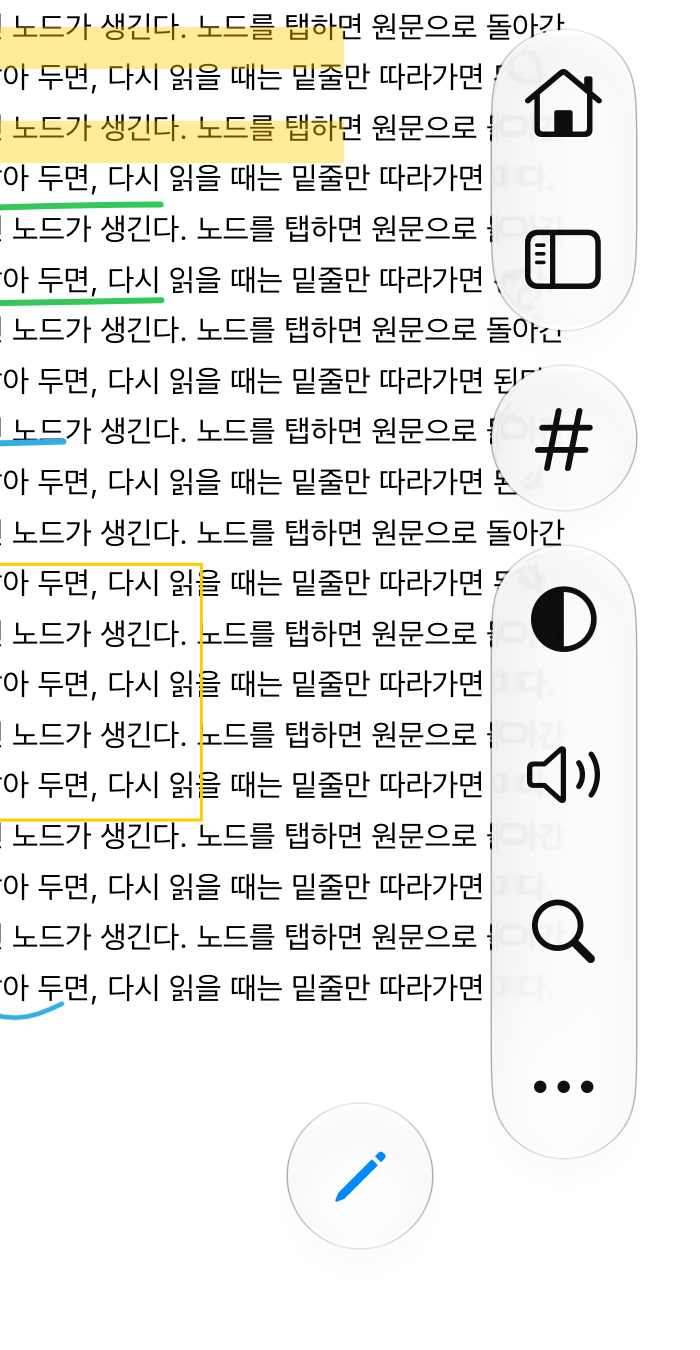
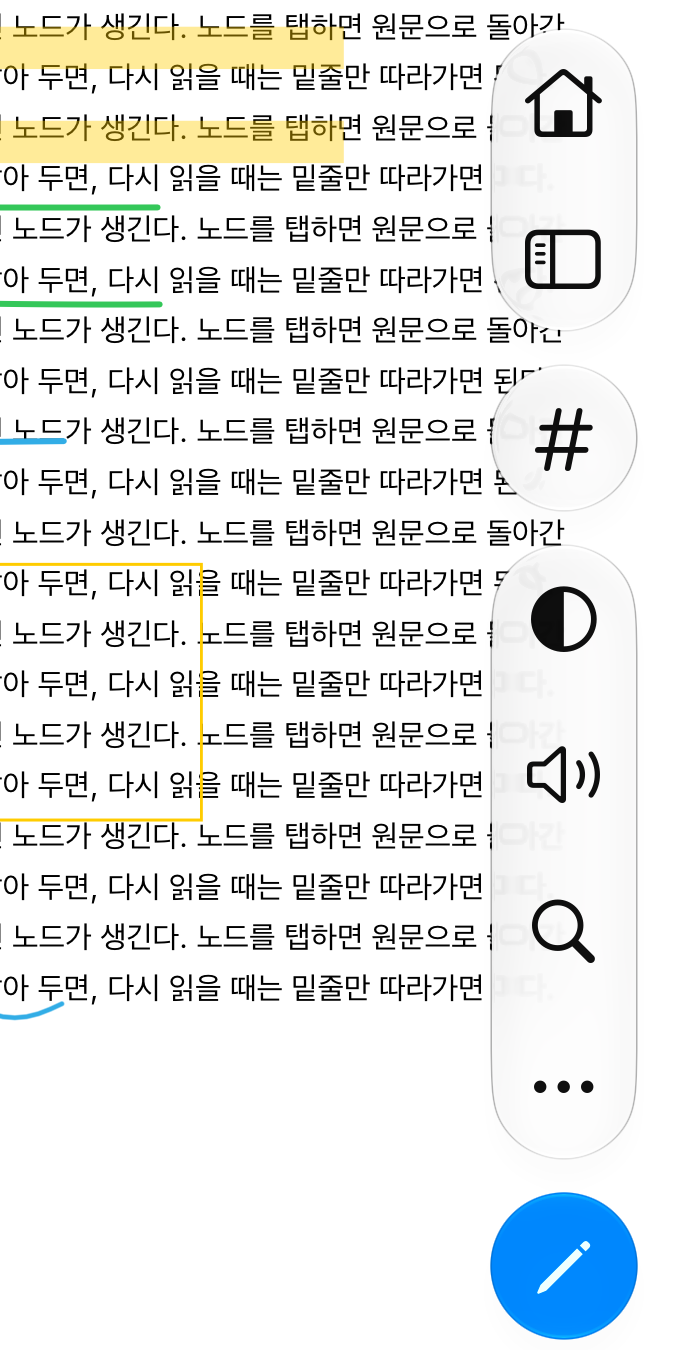
improve: blog — 접은 Duo 막대 캡처를 편집 토글이 막대 맨 아래인 것으로
Claude-Session: https://claude.ai/code/session_01UreDqozjHLdwUGiykiUzpR

diff --git a/src/content/blog/en/2026-11-04-superpdf-read-edit-toggle.md b/src/content/blog/en/2026-11-04-superpdf-read-edit-toggle.md
@@ -108,7 +108,7 @@ Two things slowed this down. The report came through the book cover, which never
 
 Four days later the reading row came out. The trigger was a screenshot of another PDF app on a folding iPhone: a house at the top of the right-hand vertical bar, a blue pencil at the bottom, and a `…` that opens a "More" popover with a page thumbnail card and plain menu rows. Everything you touch while reading sits in one bar; below it is only the page. The ask: back becomes a house, the "documents" icon becomes a sidebar icon, every reading control moves to the right with the depth redrawn, and the edit button goes to the very bottom of that bar.
 
-![The folding iPhone's vertical bar — home, list, #, view, speaker, search, more; the blue pencil sits below the crop](/blog/superpdf-read-edit-toggle/right-bar.png)
+![The folding iPhone's vertical bar — home, list, #, view, speaker, search, more, and the blue pencil at the bottom](/blog/superpdf-read-edit-toggle/right-bar.png)
 
 Top to bottom: home, PDF list, page (`#` on the vertical bar, "3 / 120" in a horizontal one → page popover with thumbnail card, go-to-page, bookmark, contents, bookmark list), view (view mode, page tone, underlines only, book/half/map), read aloud (starts immediately and opens pause/stop, speed, tables, voice), search, more (exports and settings), and the accent-colored pencil. Seven items won over five — the five-item variant hid view and read-aloud behind "more", one tap too deep for the things you touch most. Contents and bookmark left the bar and became rows of the page popover.
 

diff --git a/src/content/blog/ko/2026-11-04-superpdf-read-edit-toggle.md b/src/content/blog/ko/2026-11-04-superpdf-read-edit-toggle.md
@@ -145,7 +145,7 @@ V 는 연필이 있던 자리 그대로다. 버튼이 손가락 밑에서 달아
 
 막대는 위에서 아래로(접는 아이폰 세로 막대 기준, 그 밖에는 왼쪽에서 오른쪽) 여덟 칸이다.
 
-![접는 아이폰의 세로 막대 — 위에서부터 집, 목록, #, 보기, 스피커, 돋보기, 점 셋. 맨 아래 파란 연필은 캡처 밖](/blog/superpdf-read-edit-toggle/right-bar.png)
+![접는 아이폰의 세로 막대 — 위에서부터 집, 목록, #, 보기, 스피커, 돋보기, 점 셋, 맨 아래 파란 연필](/blog/superpdf-read-edit-toggle/right-bar.png)
 
 | 칸 | 누르면 |
 |---|---|
